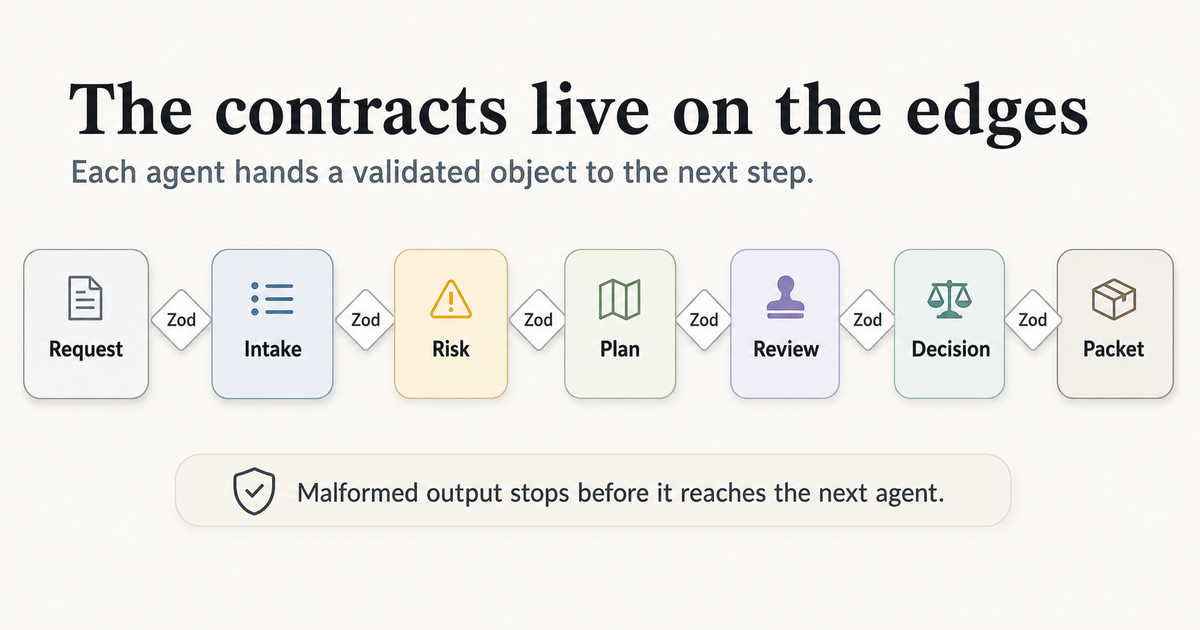
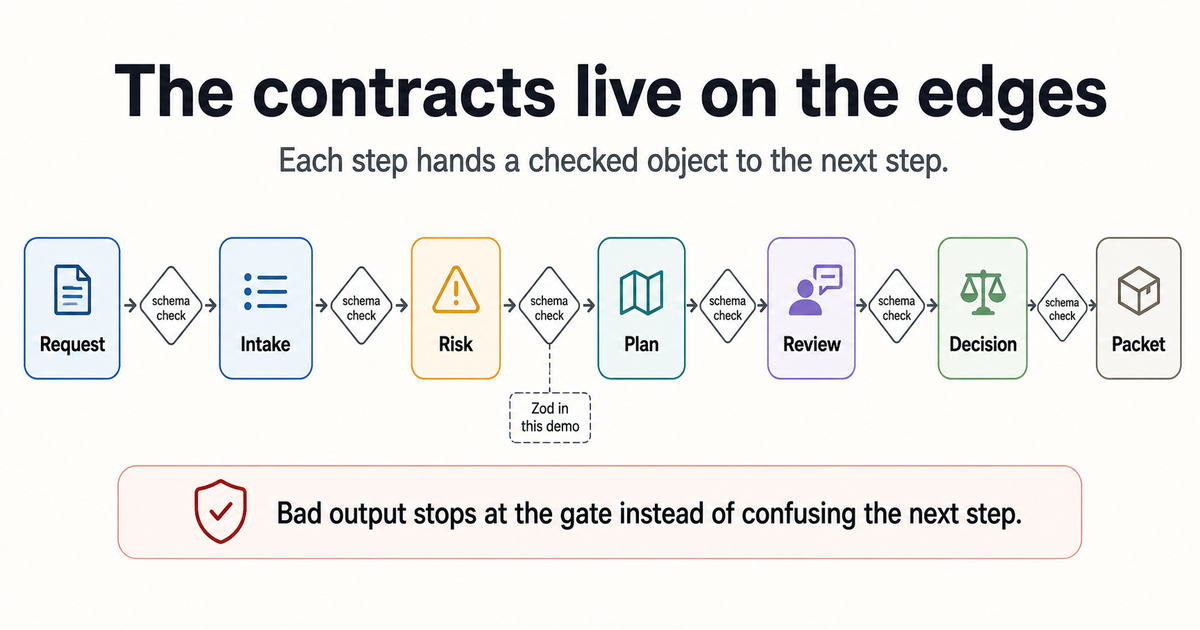
Clarify generated pipeline graphics

diff --git a/README.md b/README.md
@@ -6,7 +6,7 @@ Agentic workflows need contracts, evals and run logs before they need more agent
 
 This repository is a small TypeScript reference project for building agent pipelines that can be inspected after they run.
 
-The default demo does not call an LLM. It uses deterministic mock agents so the engineering pattern is visible: Zod contracts, validated outputs, eval-style tests, JSONL run logs, review findings and a final run packet.
+The default demo does not call an LLM. It uses deterministic mock agents so the engineering pattern is visible: Zod contracts (schema checks), validated outputs, eval-style tests, JSONL run logs, review findings and a final run packet.
 
 ## Why not just chain agents?
 
@@ -56,6 +56,8 @@ The review gate drops it because no upstream evidence supports it.
 That is the point of the demo.
 
 ![Unsupported claim being dropped by the review gate](assets/failure-mode.png)
+
+Here, "dropped" does not mean hidden or forgotten. It means the claim is documented in the review record and deliberately excluded from the final brief.
 
 ## Show the receipts
 
@@ -136,7 +138,7 @@ Key files:
 
 ## Architecture
 
-The core loop is small. Each agent output is validated with Zod before it reaches the next step.
+The core loop is small. Each agent output is validated before it reaches the next step. In this demo, Zod is the TypeScript library doing that schema check.
 
 ![Pipeline flow from request to final brief](assets/pipeline-flow.png)
 

diff --git a/docs/architecture.md b/docs/architecture.md
@@ -13,6 +13,8 @@ The point is to show the shape of an inspectable pipeline before adding model co
 
 ## Flow
 
+In the diagrams, "schema check" means a handoff test: does this step produce the structured object the next step expects? This demo uses Zod for that check.
+
 ![Inspectable pipeline architecture](../assets/architecture-flow.png)
 
 ## Contracts